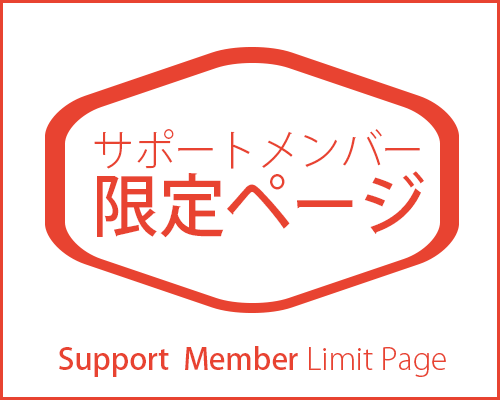
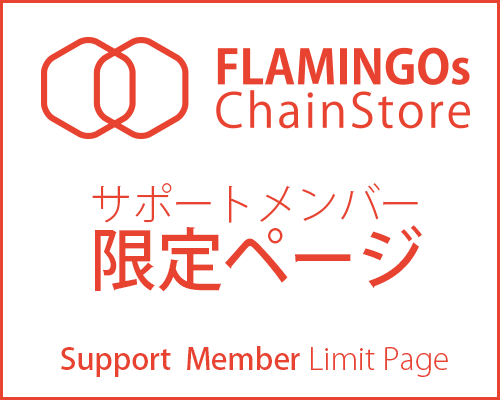
メンバーログインページのカスタマイズ

Changed region(s): [[0.06, 0.09, 0.96, 0.78], [0.12, 0.87, 0.9, 0.96], [0.36, 0.36, 0.42, 0.39]]

diff --git a/wp-content/themes/flamingos-chainstore-unite/style.css b/wp-content/themes/flamingos-chainstore-unite/style.css
@@ -309,19 +309,14 @@ div.container.wf h2.widget-title{
     -webkit-border-radius: 2px;
     border-radius: 2px;
 }
-
+/* page-fullwidth *******/
+.entry-title {
+    font-size: 32px;
+    font-weight: 100;
+    color: #e84331;
+}
 
 /* Branding  concept color 2 *******/
-.navbar-default .navbar-nav>.active>a, .navbar-default .navbar-nav>.active>a:focus, .navbar-default .navbar-nav>.active>a:hover {
-    color: #fff;
-    background-color: #e86a57;
-}
-.woocommerce #respond input#submit.alt, .woocommerce a.button.alt, .woocommerce button.button.alt, .woocommerce input.button.alt {
-    background-color: #e86a57;
-    color: #fff;
-    -webkit-font-smoothing: antialiased;
-}
-
 
 
 /* Branding  concept color 3 *******/
@@ -453,6 +448,40 @@ input[type="text"], input[type="email"], input[type="url"], input[type="password
 .bizfom2{margin: 10px 0 13px 0;}
 .bizfom3{color: #fff;font-size: 14px;padding: 10px 5px;}
 
+
+/* woocommerce *******/
+.woocommerce .star-rating{
+color: #e2c242;/* 星のマーク*******/
+margin: 0 0 3px 0;
+}
+.woocommerce-info {
+    border-top-color: #e84331;
+}
+
+.navbar-default .navbar-nav>.active>a, .navbar-default .navbar-nav>.active>a:focus, .navbar-default .navbar-nav>.active>a:hover {
+    color: #fff;
+    background-color: #e86a57;
+}
+.woocommerce #respond input#submit.alt, .woocommerce a.button.alt, .woocommerce button.button.alt, .woocommerce input.button.alt {
+    background-color: #e86a57;
+    color: #fff;
+    -webkit-font-smoothing: antialiased;
+}
+.woocommerce ul.cart_list, .woocommerce ul.product_list_widget {
+    padding: 0 10px;
+}
+.woocommerce ul.products li.product .price {
+    color: #e84331;
+    display: block;
+    font-weight: 400;
+    margin-bottom: .5em;
+    font-size: 17px;
+}
+.woocommerce ul.products li.product h3 {
+    padding: .5em 0;
+    margin: 0;
+    font-size: 1.5em;
+}
 
 /******************************************  
 

diff --git a/wp-content/themes/flamingos-chainstore-unite/functions.php b/wp-content/themes/flamingos-chainstore-unite/functions.php
@@ -81,7 +81,36 @@ function xsbf_widgets_init() {
 		'after_widget' 	=> '</div><!-- container --></div>',
 	) );
 
+//パスワードロック設定　　「保護中：」のテキストを消す
+add_filter('protected_title_format', 'remove_protected');
+  function remove_protected($title) {
+  return '%s';
+}
 
+//パスワードロック設定　　注意書きを変更する
+function my_password_form() {
+  return
+    '<img src="http://localhost:8888/flamingos-chainstore/wp-content/uploads/2016/12/member-login.png">
+     <br><br>
+     <p>サポートプランのメンバー限定ページです。 <p>
+     <p>メンバーの方は、パスワードをご入力の上、ログインしてください。<p>
+    <form class="post_password" action="' . home_url() . '/wp-login.php?action=postpass" method="post">
+      <input name="post_password" type="password" size="24" class="dwpass">
+      <input type="submit" name="Submit" value="' . esc_attr__("ログイン") . '">
+    </form>';
+}
+add_filter('the_password_form', 'my_password_form');
+
+
+//パスワードロック設定　　１時間
+function custom_postpass_time() {
+    require_once ABSPATH . 'wp-includes/class-phpass.php';
+    $hasher = new PasswordHash( 8, true );
+    setcookie( 'wp-postpass_' . COOKIEHASH, $hasher->HashPassword( wp_unslash( $_POST['post_password'] ) ), time() + HOUR_IN_SECONDS, COOKIEPATH );
+    wp_safe_redirect( wp_get_referer() );
+    exit();
+}
+add_action( 'login_form_postpass', 'custom_postpass_time' );
 
 } //end function
 endif; // end ! function_exists
